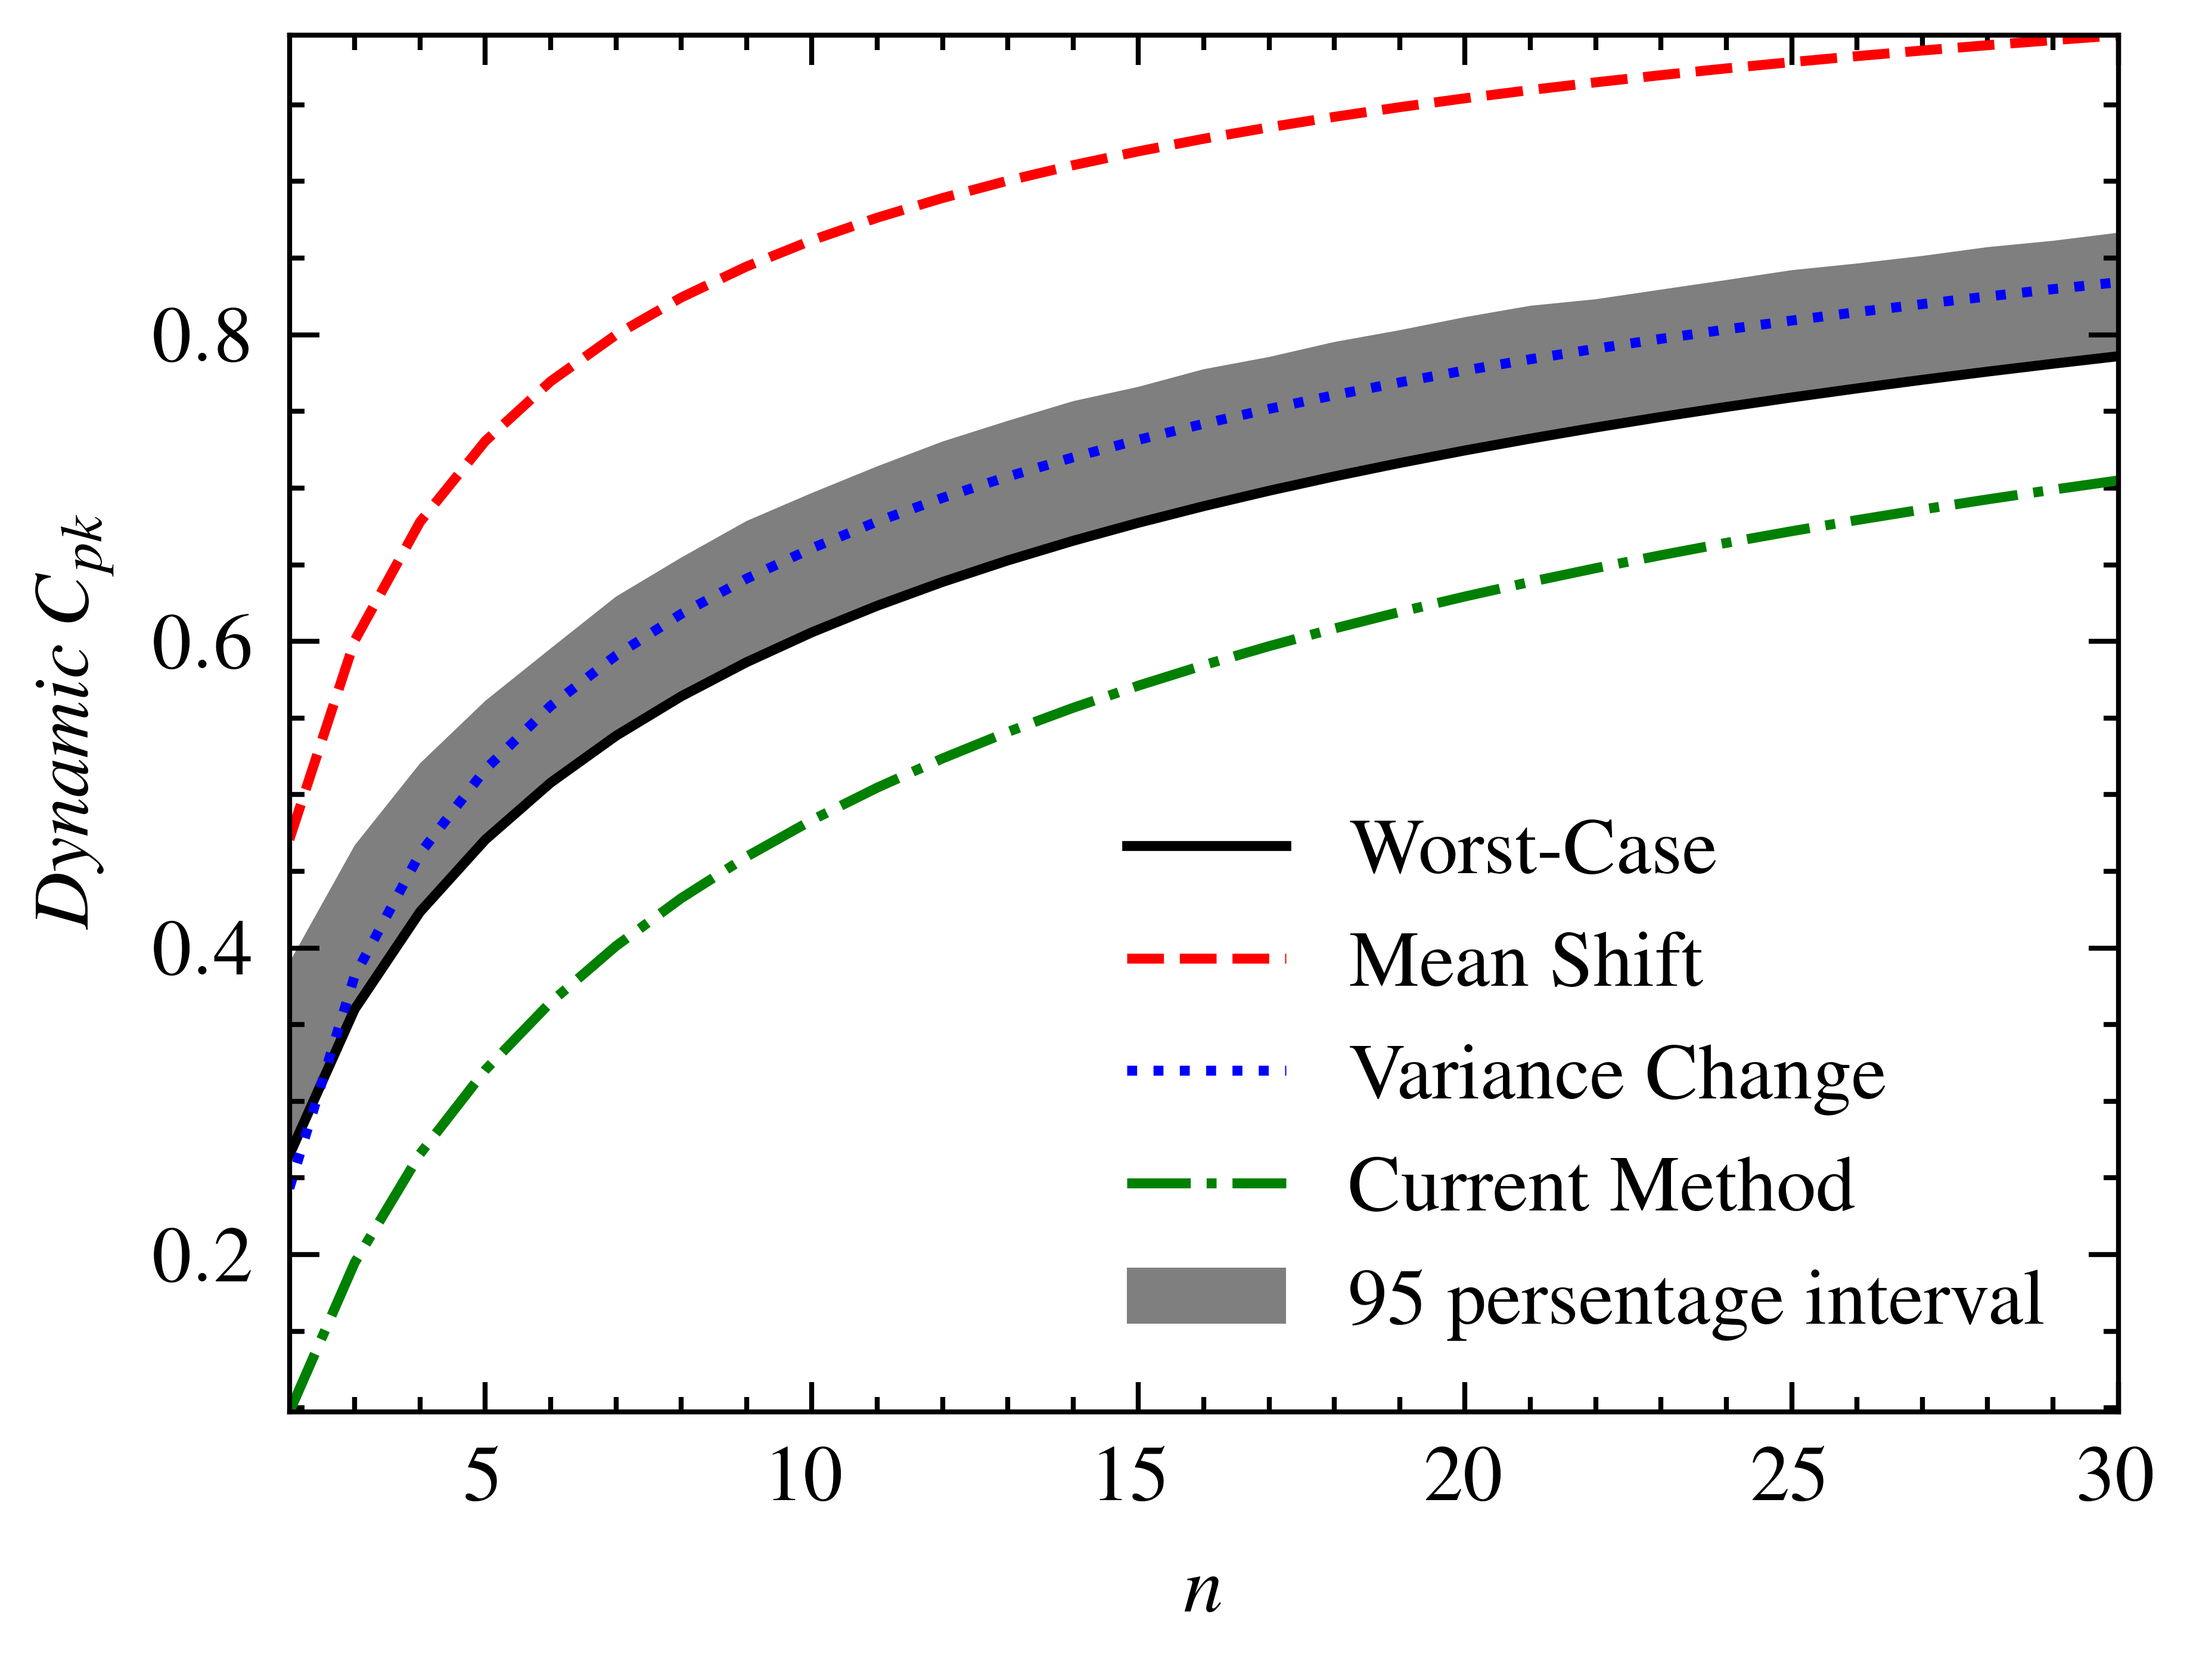
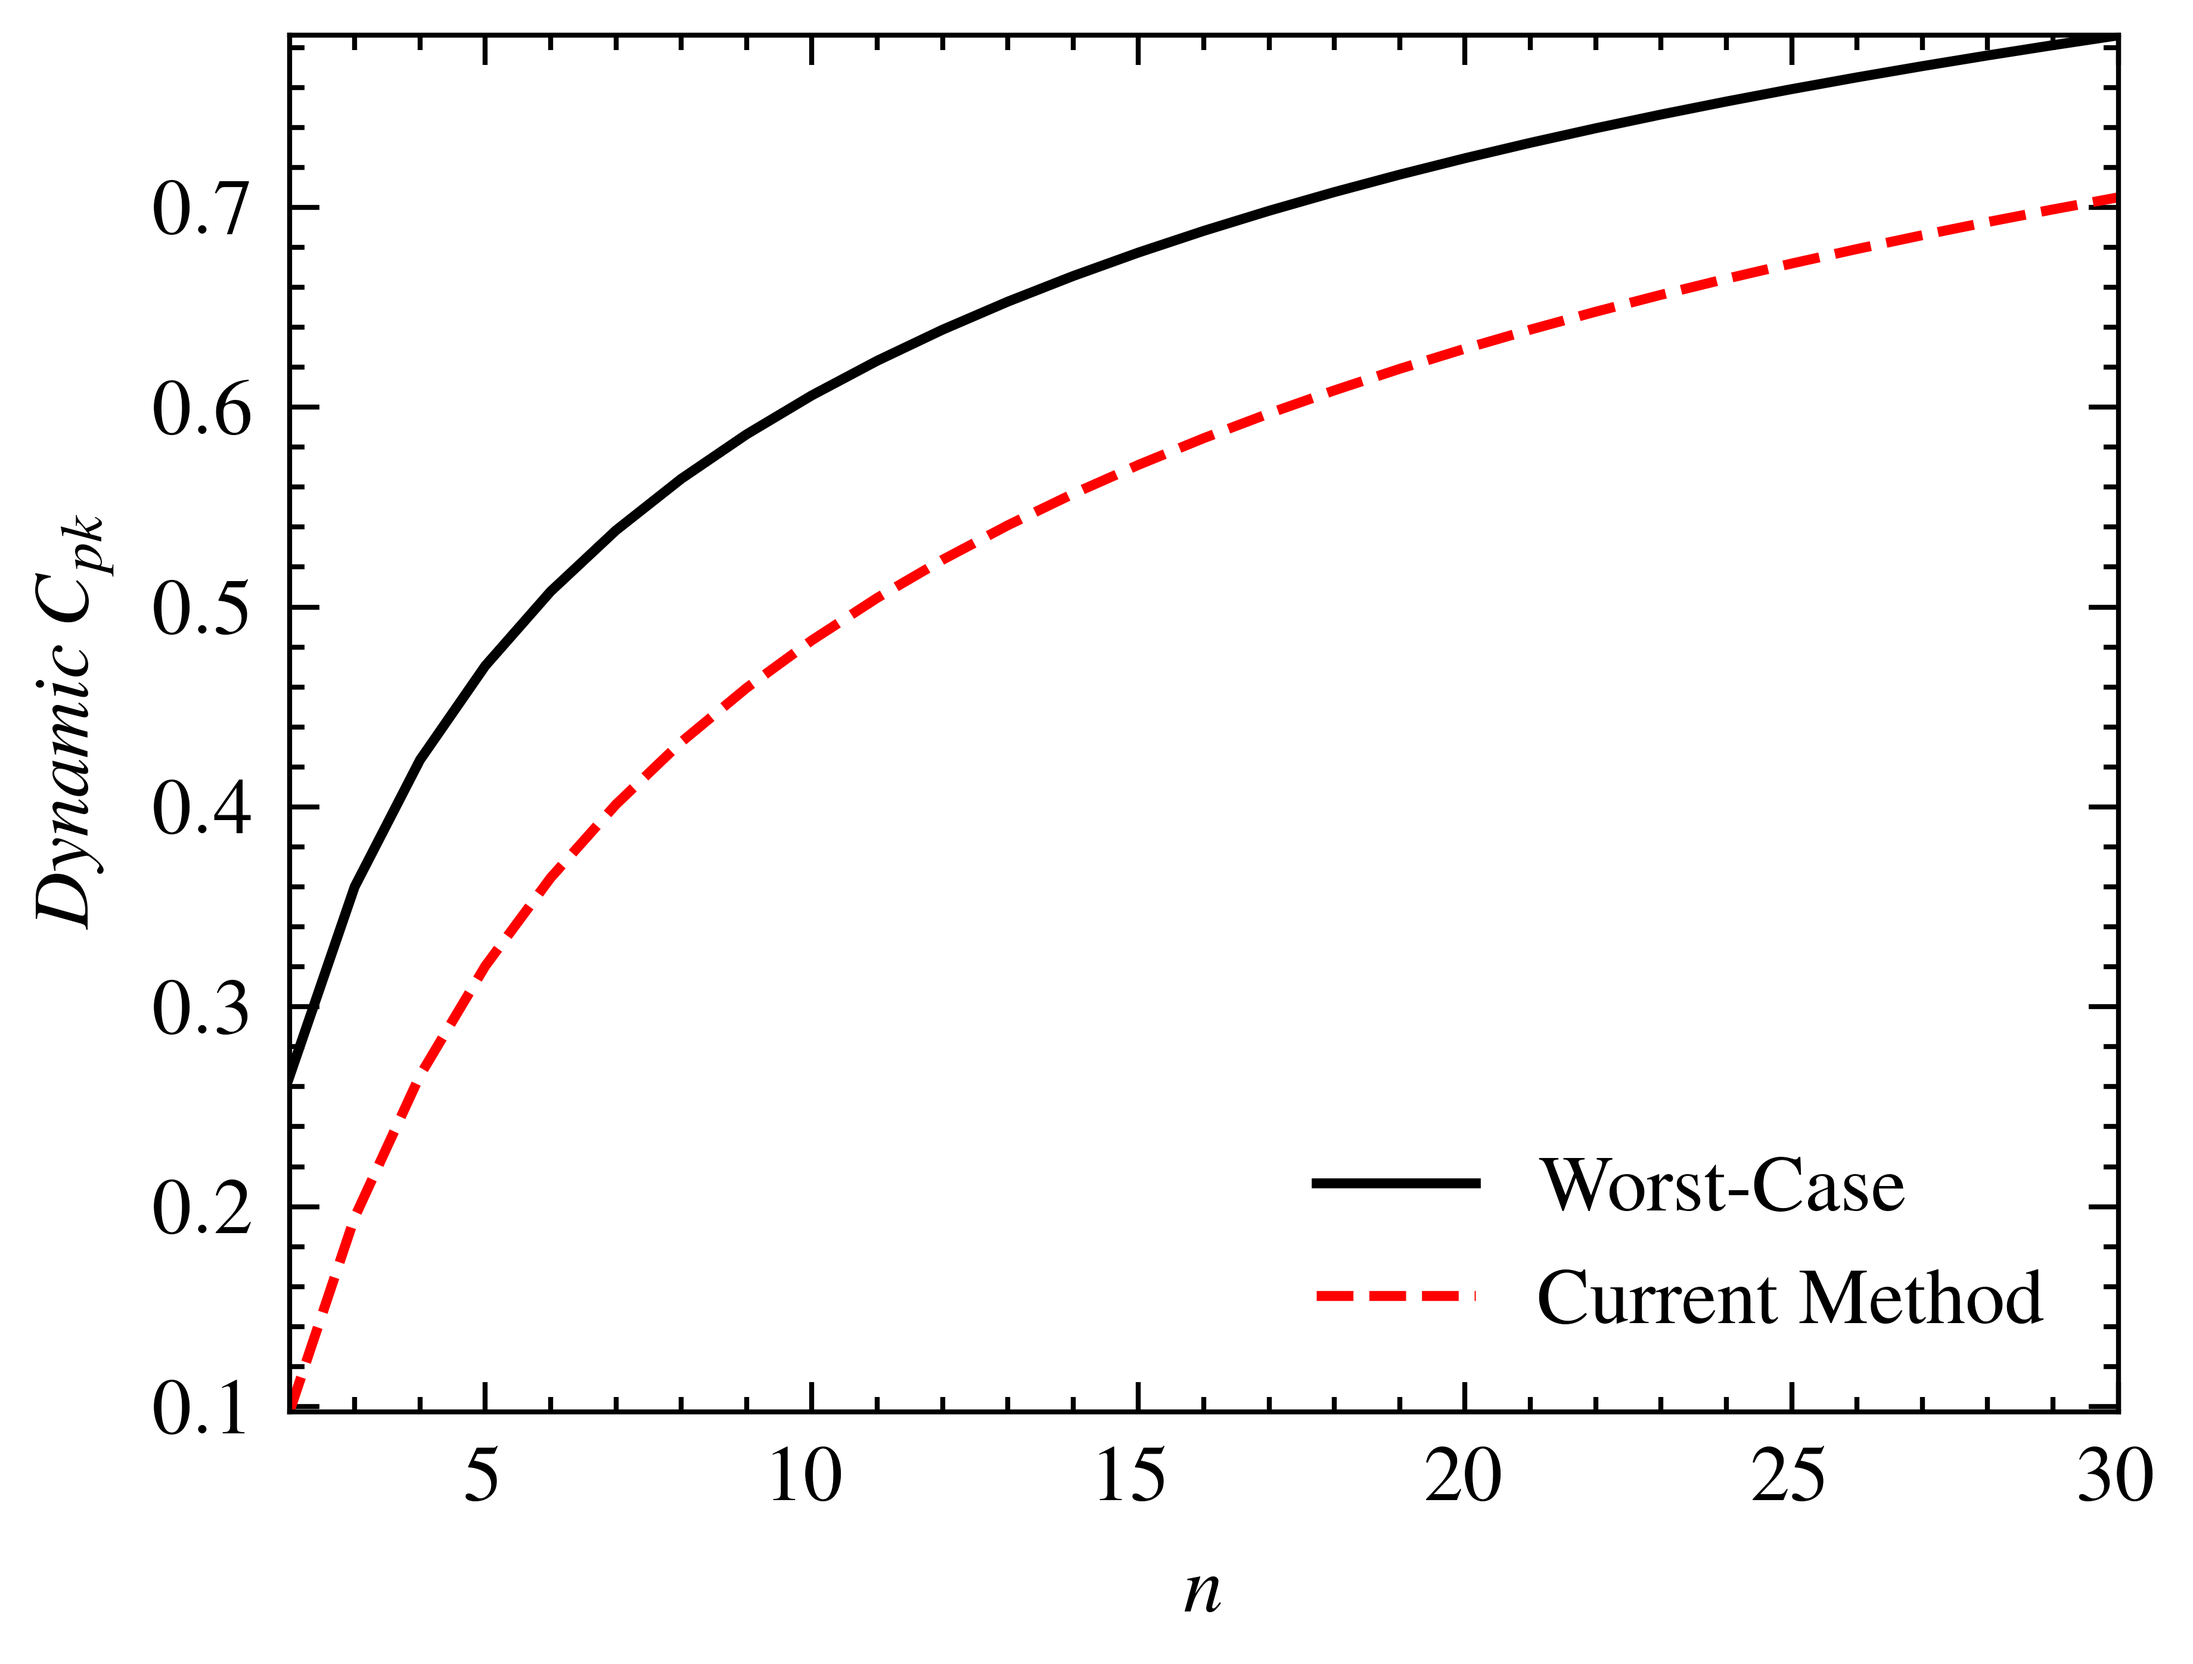
added CPK-PI and NCPPM ratio and QQ-plot

diff --git a/dypro/plot.py b/dypro/plot.py
@@ -59,16 +59,16 @@ class PlotGraph:
                 F.dynamic_cpk(mean, sigma, USL, LSL, k1, k2),
                 label="Worst-Case",
             )
-            ax.plot(
-                self.adj_conf.n,
-                F.dynamic_cpk(mean, sigma, USL, LSL, self.bothe_k1, 1),
-                label="Mean Shift",
-            )
-            ax.plot(
-                self.adj_conf.n,
-                F.dynamic_cpk(mean, sigma, USL, LSL, 0, self.pearn_k2),
-                label="Variance Change",
-            )
+            # ax.plot(
+            #     self.adj_conf.n,
+            #     F.dynamic_cpk(mean, sigma, USL, LSL, self.bothe_k1, 1),
+            #     label="Mean Shift",
+            # )
+            # ax.plot(
+            #     self.adj_conf.n,
+            #     F.dynamic_cpk(mean, sigma, USL, LSL, 0, self.pearn_k2),
+            #     label="Variance Change",
+            # )
             ax.plot(
                 self.adj_conf.n,
                 F.dynamic_cpk(mean, sigma, USL, LSL, self.bothe_k1, self.pearn_k2),
@@ -81,7 +81,7 @@ class PlotGraph:
                     self.proposed_df["cpk pct 025"],
                     self.proposed_df["cpk pct 975"],
                     alpha=0.5,
-                    label="95 persentage interval",
+                    label="95 Persentage Interval",
                 )
 
             ax.legend(loc="lower right")
@@ -127,6 +127,35 @@ class PlotGraph:
             )
 
             ax.legend(loc="upper right")
+            ax.autoscale(tight=True)
+            ax.set(**plt_param)
+            fig.savefig(save_path, dpi=self.plot_conf.dpi, bbox_inches="tight")
+            plt.close()
+
+    def ncppm_ratio(self, save_path="ncppm_comarison.png"):
+        mean, sigma, USL, LSL = (
+            self.param.mean,
+            self.param.sigma,
+            self.param.USL,
+            self.param.LSL,
+        )
+        k1 = self.proposed_df["k1 min"].values
+        k2 = self.proposed_df["k2 min"].values
+
+        with plt.style.context(["science", "ieee"]):
+            fig, ax = plt.subplots()
+            plt_param = dict(xlabel="$n$", ylabel="$NCPPM$ $Ratio$")
+
+            # calculated cpk
+            proposed_ncppm = F.ncppm(F.dynamic_cpk(mean, sigma, USL, LSL, k1, k2))
+            current_ncppm = F.ncppm(
+                F.dynamic_cpk(mean, sigma, USL, LSL, self.bothe_k1, self.pearn_k2)
+            )
+
+            ax.plot(
+                self.adj_conf.n,
+                current_ncppm / proposed_ncppm,
+            )
             ax.autoscale(tight=True)
             ax.set(**plt_param)
             fig.savefig(save_path, dpi=self.plot_conf.dpi, bbox_inches="tight")

diff --git a/3-1 example_preposed_previous.py b/3-1 example_preposed_previous.py
@@ -73,8 +73,14 @@ def main():
             figname=figname,
         )
 
-        plotter.cpk(save_path=f"{RESULT_DIR}/cpk_comparison_{chartname}.png", ci=True)
+        plotter.cpk(save_path=f"{RESULT_DIR}/cpk_comparison_{chartname}.png", ci=False)
+        plotter.cpk(
+            save_path=f"{RESULT_DIR}/cpk(PI)_comparison_{chartname}.png", ci=True
+        )
         plotter.ncppm(save_path=f"{RESULT_DIR}/ncppm_comparsion_{chartname}.png")
+        plotter.ncppm_ratio(
+            save_path=f"{RESULT_DIR}/ncppm_ratio_comparsion_{chartname}.png"
+        )
 
 
 if __name__ == "__main__":
